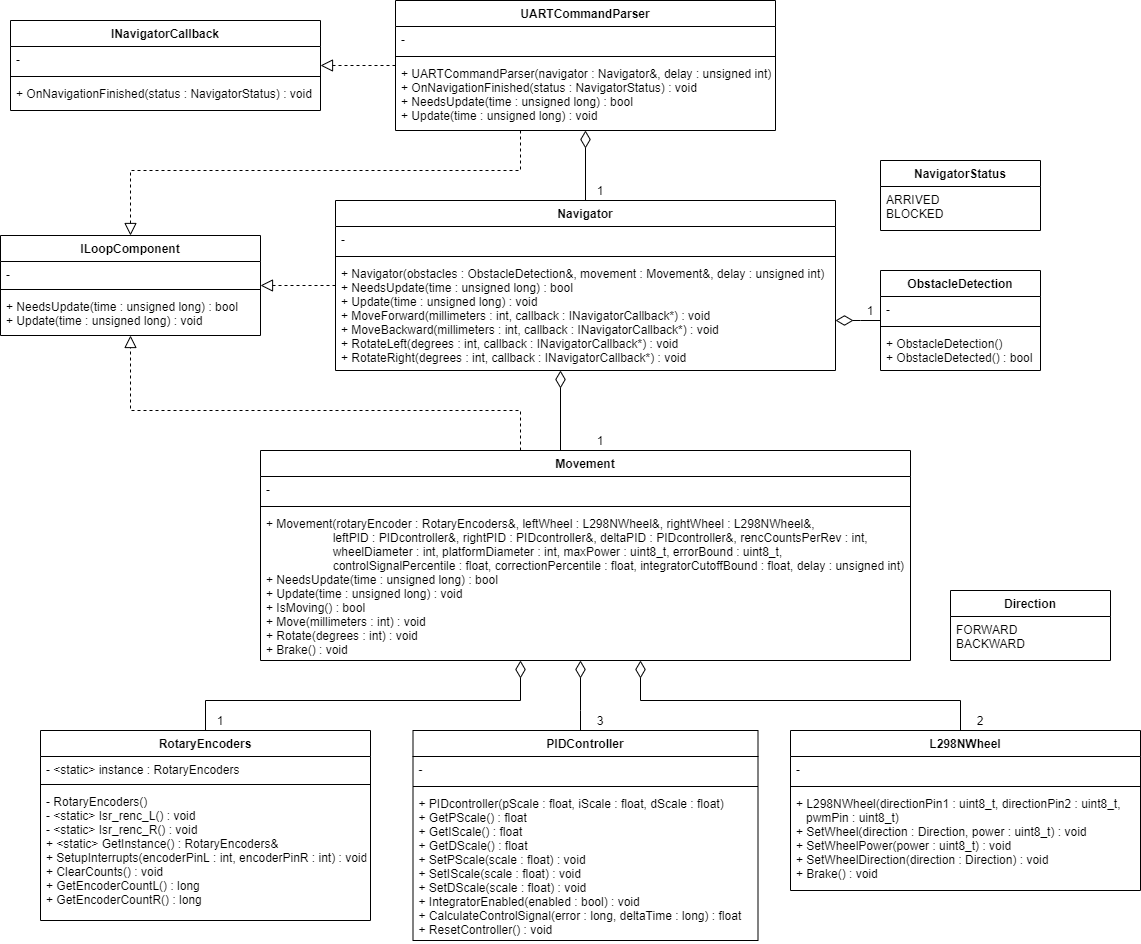
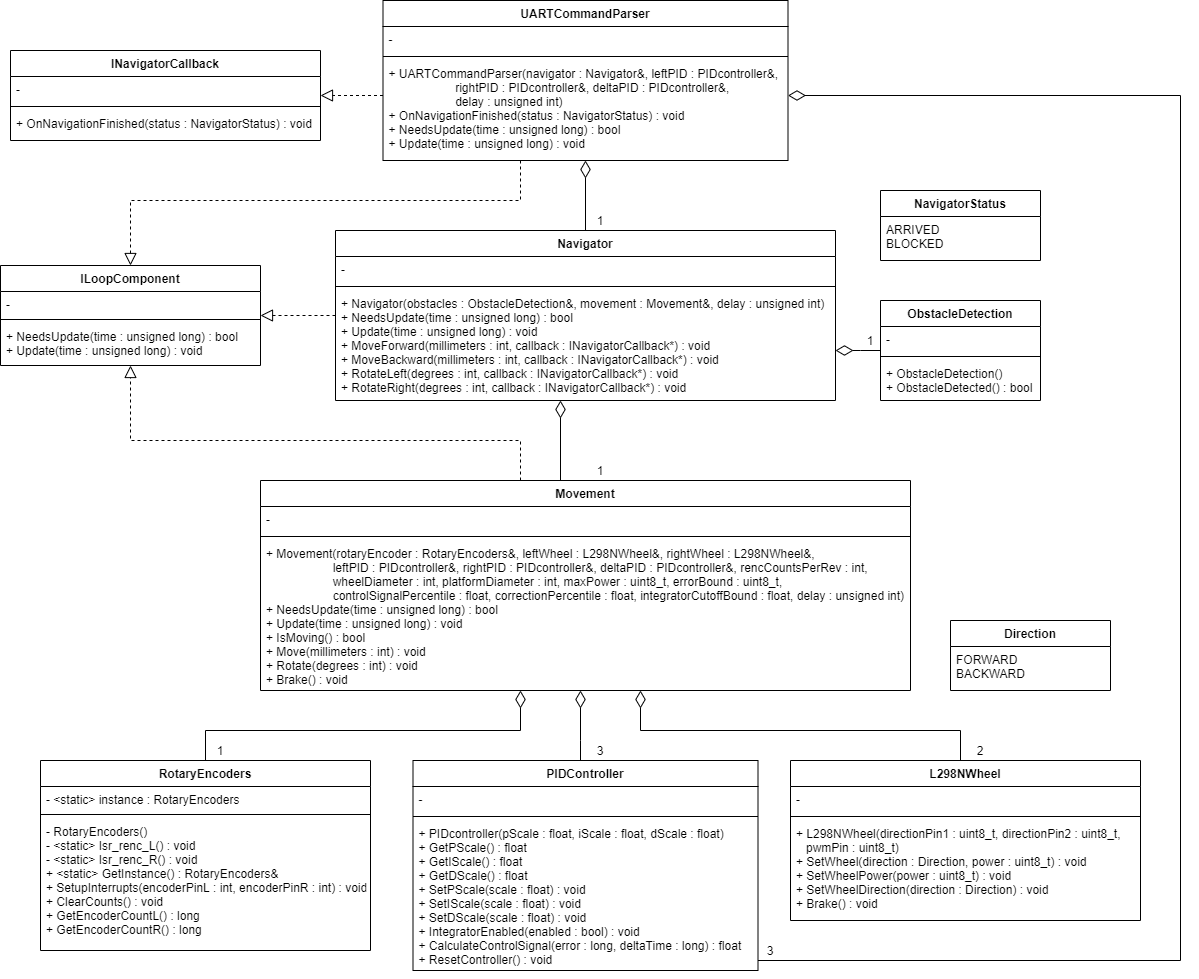
added commands for modifying PID-controller values

diff --git a/RobotGuide/RobotGuide_src/src/UARTCommandParser.cpp b/RobotGuide/RobotGuide_src/src/UARTCommandParser.cpp
@@ -11,8 +11,28 @@ static const char* TURN = "TURN";
 static const char* NAVS = "NAVS";
 static const char* NAVF = "NAVF";
 
-UARTCommandParser::UARTCommandParser(Navigator& navigator, unsigned int delay)
+//commands for setting pid controller variables
+static const char* SETMTRVARP = "SETMTRVARP";
+static const char* SETMTRVARI = "SETMTRVARI";
+static const char* SETMTRVARD = "SETMTRVARD";
+
+static const char* SETDLTVARP = "SETDLTVARP";
+static const char* SETDLTVARI = "SETDLTVARI";
+static const char* SETDLTVARD = "SETDLTVARD";
+
+static const char* PRINTPIDVARS = "PRINTPIDVARS";
+
+static const char* VARSETS = "VARSETS";
+
+UARTCommandParser::UARTCommandParser(Navigator& navigator,
+                                    PIDcontroller& leftPID,
+                                    PIDcontroller& rightPID,
+                                    PIDcontroller& deltaPID,
+                                    unsigned int delay)
     : navigator(navigator)
+    , leftPID(leftPID)
+    , rightPID(rightPID)
+    , deltaPID(deltaPID)
     , nextUpdateTime(0)
     , delay(delay)
 {
@@ -60,11 +80,12 @@ void UARTCommandParser::Update(unsigned long time)
 
     char* cmd = strtok(msg, " ");
     char* argc = strtok(NULL, " ");
-    int arg = atoi(argc);
+    float arg = atof(argc);
 
     Commands command = ParseStringToCommand(cmd);
 
-    if(command == Commands::NOT_A_COMMAND || argc == NULL || arg == 0)
+    if(command == Commands::NOT_A_COMMAND || 
+      (command != Commands::PRINTPIDVARS && (argc == NULL || arg == 0)))
     {
         SendSerialResponse(NAVF);
         return;
@@ -91,13 +112,41 @@ Commands UARTCommandParser::ParseStringToCommand(char* data)
     {
         return Commands::TULN;
     }
+    else if(strcmp(data, SETMTRVARP) == 0)
+    {
+        return Commands::SETMTRVARP;
+    }
+    else if(strcmp(data, SETMTRVARI) == 0)
+    {
+        return Commands::SETMTRVARI;
+    }
+    else if(strcmp(data, SETMTRVARD) == 0)
+    {
+        return Commands::SETMTRVARD;
+    }
+    else if(strcmp(data, SETDLTVARP) == 0)
+    {
+        return Commands::SETDLTVARP;
+    }
+    else if(strcmp(data, SETDLTVARI) == 0)
+    {
+        return Commands::SETDLTVARI;
+    }
+    else if(strcmp(data, SETDLTVARD) == 0)
+    {
+        return Commands::SETDLTVARD;
+    }
+    else if(strcmp(data, PRINTPIDVARS) == 0)
+    {
+        return Commands::PRINTPIDVARS;
+    }
     else
     {
         return Commands::NOT_A_COMMAND;
     }
 }
 
-void UARTCommandParser::ExecuteCommand(Commands command, int arg)
+void UARTCommandParser::ExecuteCommand(Commands command, float arg)
 {
     switch (command)
     {
@@ -116,7 +165,44 @@ void UARTCommandParser::ExecuteCommand(Commands command, int arg)
     case Commands::TURN:
         navigator.RotateRight(arg, this);
         break;
-    
+
+    case Commands::SETMTRVARP:
+        leftPID.SetPScale(arg);
+        rightPID.SetPScale(arg);
+        SendSerialResponse(VARSETS);
+        break;
+
+    case Commands::SETMTRVARI:
+        leftPID.SetIScale(arg);
+        rightPID.SetIScale(arg);
+        SendSerialResponse(VARSETS);
+        break;
+
+    case Commands::SETMTRVARD:
+        leftPID.SetDScale(arg);
+        rightPID.SetDScale(arg);
+        SendSerialResponse(VARSETS);
+        break;
+
+    case Commands::SETDLTVARP:
+        deltaPID.SetPScale(arg);
+        SendSerialResponse(VARSETS);
+        break;
+
+    case Commands::SETDLTVARI:
+        deltaPID.SetIScale(arg);
+        SendSerialResponse(VARSETS);
+        break;
+
+    case Commands::SETDLTVARD:
+        deltaPID.SetDScale(arg);
+        SendSerialResponse(VARSETS);
+        break;
+
+    case Commands::PRINTPIDVARS:
+        PrintPIDControllerValues();
+        break;
+        
     default:
         break;
     }
@@ -129,4 +215,32 @@ void UARTCommandParser::SendSerialResponse(const char* rsp) const
     strcat(data, "\n");
 
     Serial.print(data);
+}
+
+void UARTCommandParser::PrintPIDControllerValues() const
+{
+    Serial.print("Left controller P value:----");
+    Serial.println(leftPID.GetPScale());
+    Serial.print("Left controller I value:----");
+    Serial.println(leftPID.GetIScale());
+    Serial.print("Left controller D value:----");
+    Serial.println(leftPID.GetDScale());
+
+    Serial.println("");
+
+    Serial.print("Right controller P value:---");
+    Serial.println(rightPID.GetPScale());
+    Serial.print("Right controller I value:---");
+    Serial.println(rightPID.GetIScale());
+    Serial.print("Right controller D value:---");
+    Serial.println(rightPID.GetDScale());
+
+    Serial.println("");
+
+    Serial.print("Delta controller P value:---");
+    Serial.println(deltaPID.GetPScale());
+    Serial.print("Delta controller I value:---");
+    Serial.println(deltaPID.GetIScale());
+    Serial.print("Delta controller D value:---");
+    Serial.println(deltaPID.GetDScale());
 }

diff --git a/RobotGuide/RobotGuide_src/include/UARTCommandParser.h b/RobotGuide/RobotGuide_src/include/UARTCommandParser.h
@@ -4,12 +4,17 @@
 #include "ILoopComponent.h"
 #include "INavigatorCallback.h"
 #include "Navigator.h"
+#include "PIDcontroller.h"
 #include "Commands.h"
 
 class UARTCommandParser : public ILoopComponent, public INavigatorCallback
 {
 public:
-    UARTCommandParser(Navigator& navigator, unsigned int delay);
+    UARTCommandParser(Navigator& navigator,
+                     PIDcontroller& leftPID,
+                     PIDcontroller& rightPID,
+                     PIDcontroller& deltaPID,
+                     unsigned int delay);
     UARTCommandParser(const UARTCommandParser& other) = delete;
     UARTCommandParser& operator=(const UARTCommandParser&) = delete;
     ~UARTCommandParser() override = default;
@@ -21,12 +26,17 @@ public:
 
 private:
     Navigator& navigator;
+    PIDcontroller& leftPID;
+    PIDcontroller& rightPID;
+    PIDcontroller& deltaPID;
+
     unsigned long nextUpdateTime;
     const unsigned int delay;
 
     Commands ParseStringToCommand(char* data);
-    void ExecuteCommand(Commands command, int arg);
+    void ExecuteCommand(Commands command, float arg);
     void SendSerialResponse(const char* rsp) const;
+    void PrintPIDControllerValues() const;
 };
 
 #endif

diff --git a/RobotGuide/RobotGuide_src/include/Constants.h b/RobotGuide/RobotGuide_src/include/Constants.h
@@ -24,7 +24,7 @@ const int PLATFORM_DIAMETER = 125;
 //resolution of encoder disks
 const int ENCODER_DISK_TICS = 40;
 
-const uint8_t MAX_MOTOR_POWER = 95;
+const uint8_t MAX_MOTOR_POWER = 100;
 const uint8_t TARGET_ERROR_BOUND = 0;
 
 //percentage of control signal composition
@@ -57,7 +57,7 @@ const int TIMEOUT = 10;
 //-----------------------------------------
 
 //delay times for loop components in milliseconds
-const unsigned int MOVEMENT_DELAY = 10;
+const unsigned int MOVEMENT_DELAY = 15;
 const unsigned int NAVIGATOR_DELAY = 25;
 const unsigned int UART_DELAY = 50;
 

diff --git a/RobotGuide/RobotGuide_src/src/main.cpp b/RobotGuide/RobotGuide_src/src/main.cpp
@@ -34,7 +34,11 @@ ObstacleDetection obstacles;
 
 Navigator navigator(movement, obstacles, NAVIGATOR_DELAY);
 
-UARTCommandParser uart(navigator, UART_DELAY);
+UARTCommandParser uart(navigator,
+                      leftPID,
+                      rightPID,
+                      deltaPID,
+                      UART_DELAY);
 
 void setup()
 {

diff --git a/RobotGuide/RobotGuide_src/include/Commands.h b/RobotGuide/RobotGuide_src/include/Commands.h
@@ -7,6 +7,13 @@ enum class Commands
     BACN,
     TULN,
     TURN,
+    SETMTRVARP,
+    SETMTRVARI,
+    SETMTRVARD,
+    SETDLTVARP,
+    SETDLTVARI,
+    SETDLTVARD,
+    PRINTPIDVARS,
     NOT_A_COMMAND
 };
 

diff --git a/RobotGuide/RobotGuide_src/README.md b/RobotGuide/RobotGuide_src/README.md
@@ -40,7 +40,7 @@ Commands have the following structure:
 `[COMMAND] [ARGUMENT]\n`  
 The command and its argument are separated by a space character, The instructions themselves are separated by newline characters. The newline character is used to signify the end of a message.
 
-Currently the robot has 4 commands:
+Currently the robot has 4 movement commands:
 
 #### FORN
 Usage: `FORN [distance in millimeters]\n`  
@@ -57,6 +57,36 @@ Tells the robot to rotate a specified amount of degrees counter-clockwise. Once 
 #### TURN
 Usage: `TURN [rotation in degrees]\n`  
 Tells the robot to rotate a specified amount of degrees clockwise. Once the robot has rotated said degrees it will send back a `NAVS\n` token via serial.
+
+The robot also has some additional commands for setting the different scalers for the used PID-controllers. These can be used as followed:
+
+### SETMTRVARP
+Usage: `SETMTRVARP [new scaler value]\n`  
+Sets the `P` values for the 2 PID-controllers that control the motors. Once the robot has set the value it will send back a `VARSETS\n` token via serial.
+
+### SETMTRVARI
+Usage: `SETMTRVARI [new scaler value]\n`  
+Sets the `I` values for the 2 PID-controllers that control the motors. Once the robot has set the value it will send back a `VARSETS\n` token via serial.
+
+### SETMTRVARD
+Usage: `SETMTRVARD [new scaler value]\n`  
+Sets the `D` values for the 2 PID-controllers that control the motors. Once the robot has set the value it will send back a `VARSETS\n` token via serial.
+
+### SETDLTVARP
+Usage: `SETDLTVARP [new scaler value]\n`  
+Sets the `P` value for the PID-controller that corrects the error-delta between the motors. Once the robot has set the value it will send back a `VARSETS\n` token via serial.
+
+### SETDLTVARI
+Usage: `SETDLTVARI [new scaler value]\n`  
+Sets the `I` value for the PID-controller that corrects the error-delta between the motors. Once the robot has set the value it will send back a `VARSETS\n` token via serial.
+
+### SETDLTVARD
+Usage: `SETDLTVARD [new scaler value]\n`  
+Sets the `D` value for the PID-controller that corrects the error-delta between the motors. Once the robot has set the value it will send back a `VARSETS\n` token via serial.
+
+### PRINTPIDVARS
+Usage: `PRINTPIDVARS\n`  
+Prints out the current PID-controller values.
 
 ---
 
